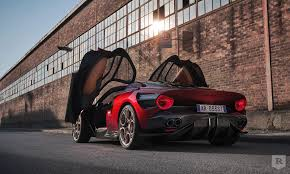
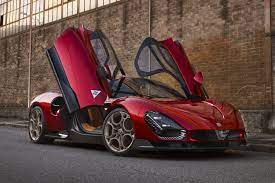
Japánok(Japanesecars.html)

diff --git a/hB_Japanesecars.html b/hB_Japanesecars.html
@@ -6,6 +6,7 @@
     <meta name="viewport" content="width=device-width, initial-scale=1.0">
     <link rel="stylesheet" href="bootstrap.css">
     <link rel="stylesheet" href="c_Autók.css">
+    <link href="Subaru.png" rel="shortcut icon" sizes="180x180">
     <title>Japanese cars</title>
 </head>
 <body>
@@ -28,31 +29,38 @@
     <div class="row">
         <div class="col-xs-12 col-md-6">
             <h2 id="#Mitsubishi">Mitsubishi</h2>
-                <p>A Mitsubishi mint márka egy független japán multinacionális vállalatokat tömörítő cégcsoport, japánul "keirecu". Ebben a cégcsoportban résztvevő cégek egymástól függetlenül végzik üzleti vagy egyéb tevékenységeiket. A keirecu-ban lévő 600 cég közül 500-nak a nevében benne van a "Mitsubishi" szó.</p>
-                <p></p>
+                <p><a href="Mitsubishi_nagy.png"><img src="Mitsubishi.png" alt="Mitsubishi Lancer" title="Mitsubishi Lancer" class="Képek"></a>A Mitsubishi mint márka egy független japán multinacionális vállalatokat tömörítő cégcsoport, japánul "keirecu". Jelenleg legdrágábban értékeített Mitsubishi egy Mitsubishi Lancer volt 117 ezer dollárért.</p>
+                <p>Az Ivaszaki Jataró által 1870-ben alapított társaság cégei előbb hajózási, bányászati, majd banki és nehézipari tevékenységet folytattak, például a Mitsubishi Heavy Industries, Ltd (Mitsubishi Jūkōgyō Kabushiki Kaisha, Micubisi Dzsúkógjó Kabusiki Kaisa) állította elő a második világháború első felének leghatékonyabb vadászgépét, a Zerót, és itt készült a Muszasi nevű szupercsatahajó is. A háború után a zaibacut feloszlatták, vagyis a központi holdingtársaságot felszámolták. 1917-ben a Mitsubishi-birodalom hajói után megszületett az első sorozatban gyártott japán személyautó, a Mitsubishi A-modell. A ma több mint negyven óriásvállalatból álló Mitsubishi-cégcsoport a világ egyik legnagyobb és legkiterjedtebb ipari konszernje. Kevesen tudják például azt, hogy a világ egyik legnagyobb bankját a Mitsubishi tudhatja magáénak.</p>
         </div>
         <div class="col-xs-12 col-md-6">
-            <h2 id="Subaru">Subaru</h2>
-                <p></p>
-                <p></p>
+            <h2 id="#Subaru">Subaru</h2>
+                <p><a href="Subaru-nagy.png"><img src="Subaru.png" alt="Subaru Impreza 22B STi" title="Subaru Impreza 22B STi" class="Képek"></a>A boxermotor nagy híveként ismert Subaru japán autómárkát 1953-ban alapították. Az egyik legkiválóbb és legritkább gép, a Subaru Impreza 22B STi például az egyik legdrágább modellé lépett elő a 32 ezer dollárjával.</p>
+                <p>Hivatalosan 1953-ban hozták létre a Subaru japán autógyártó-vállalatot, ám gyökerei egészen 1915-ig nyúlnak vissza az időben. A sokáig repülőgépkutató-laboratóriumként működő Fuji Heavy Industries (FHI) átszervezésére 1932-ben került sor, immár Nakajima Aircraft Company Ltd. néven, mely a második világháború alatt Japán repülőinek egyik fő gyártójává vált. A háború után Fuji Sangyo Co., Ltd.-ként szervezték újra a vállalatot, ami repülőgép-alkatrészekből építette meg Fuji Rabbit nevű motoros robogóját 1946-ban. A japán kormány rendelete értelmében négy évvel később 12 részre osztották fel. 1953 és 1955 összesen hat vállalat egyesült, és újra létrejött a Fuji Heavy Industries. A vezetés azonban új vállalatot akart létrehozni autógyártásra, és mialatt elkezdték fejleszteni a P-1 kódnevű autót, megszületett a Subaru.</p>
         </div>
         <div class="col-xs-12 col-md-6">
             <h2 id="#Honda">Honda</h2>
-                <p></p>
-                <p></p>
+                <p><a href="Honda_nagy.png"><img src="Honda.png" alt="Honda NSX" title="Honda NSX" class="Képek"></a>Az 1948 szeptemberében alapított Honda Motor Co. Ltd. létezése első percétől fogva kivételes színvonalú mérnöki teljesítményéről ismert. A nemsokára boltokba kerülő NSX lesz az eddigi legdrágább, Amerikában sorozatgyártott négykerekű a maga 156 ezer dolláros alapárával</p>
+                <p>A Honda már 15 éve működött, amikor elkezdett gépkocsikat gyártani, és újabb tíz évbe telt, mire a nemzetközi autóipar fontos szereplőjévé vált. A 80-as évek elején a Honda már vezető multinacionális vállalat volt. A Honda 1963-ban 136 járművet gyártott. Egy évvel később 5210, 1965-ben pedig már 8779 darabot, amelyek egynegyedét exportálták. A termelés ezután visszaesett 3209 járműre, egy újabb év elteltével, 1967-ben azonban ismét fellendült, nem kevesebb, mint 87 000 darabra. A siker kulcsa az erős hazai piac volt: 1968-ban 186 500, 1969-ben 232 000 járművet gyártottak, és a termelésnek csupán 5%-át exportáltak.</p>
         </div>
         <div class="col-xs-12 col-md-6">
             <h2 id="#Toyota">Toyota</h2>
-                <p></p>
-                <p></p>
+                <p><a href="Toyota_nagy.png"><img src="Toyota.png" alt="Toyota GR Supra Racing" title="Toyota GR Supra Racing" class="Képek"></a>A Toyota legdrágább autója egy versenyautó, a Toyota GR Supra Racing mely akár 2millió dollárba is kerülhet.</p>
+                <p>Mire a Toyota a harmincas évek közepén elkezdett autókat gyártani már sok japán autógyár működött. A japán belpiac alaposan megerősödött, Amerika nagy érdeklődést mutatott a Toyotákra. Már Európában is egyre inkább elismerték a márkát: a fő betörési pontok közé tartozott Hollandia, Svájc és Dánia.1961-ben piacra került az egész Ázsiát meghódító, apró Publica (a Starlet távoli elődje), aztán 1965-ben 0,8 literes motorral hajtott, parányi sportkocsi, a Sports 800, majd 1966-ban a cég mindmáig legnagyobb sikere, a Corolla. </p>
         </div>
-        <h4>Források</h4>
-        <ul>
-            <li><a href="https://hu.wikipedia.org/wiki/Mitsubishi">https://hu.wikipedia.org/wiki/Mitsubishi</a> 2024.05.25</li>
-            <li></li>
-            <li></li>
-            <li></li>
-        </ul>
+        <div class="Forrasok">
+            <h4>Források</h4>
+            <ul>
+                <li><a href="https://hu.wikipedia.org/wiki/Mitsubishi">https://hu.wikipedia.org/wiki/Mitsubishi</a> 2024.05.25</li>
+                <li><a href="https://autopult.hu/hirek/42-milliot-fizettek-egy-22-eves-mitsubishiert.html">https://autopult.hu/hirek/42-milliot-fizettek-egy-22-eves-mitsubishiert.html</a> 2024.06.02</li>
+                <li><a href="https://www.vezess.hu/subaru/">https://www.vezess.hu/subaru/</a> 2024.06.02</li>
+                <li><a href="https://www.caranddriver.com/news/a43375653/1998-subaru-impreza-22b-sti-bring-a-trailer-auction/">https://www.caranddriver.com/news/a43375653/1998-subaru-impreza-22b-sti-bring-a-trailer-auction/</a> 2024.06.02</li>
+                <li><a href="https://hu.wikipedia.org/wiki/Honda">https://hu.wikipedia.org/wiki/Honda</a> 2024.06.02</li>
+                <li><a href="https://www.autoblog.hu/hirek/a-honda-nsx-lesz-minden-idok-legdragabb-amerikai-autoja/">https://www.autoblog.hu/hirek/a-honda-nsx-lesz-minden-idok-legdragabb-amerikai-autoja/</a> 2024.06.02</li>
+                <li><a href="https://hu.wikipedia.org/wiki/Toyota">https://hu.wikipedia.org/wiki/Toyota</a> 2024.06.02</li>
+                <li><a href="https://hu.motor1.com/news/260619/2-millio-dollarba-is-kerulhet-a-legdragabb-toyota-supra/">https://hu.motor1.com/news/260619/2-millio-dollarba-is-kerulhet-a-legdragabb-toyota-supra/</a> 2024.06.02</li>
+                <li><a href="https://toyotagazooracing.com/gr/supra/genevams18/">https://toyotagazooracing.com/gr/supra/genevams18/</a> 2024.06.02</li>
+            </ul>
+        </div>
     </div>
 </body>
 </html>

diff --git a/hB_Italiancars.html b/hB_Italiancars.html
@@ -6,6 +6,7 @@
     <meta name="viewport" content="width=device-width, initial-scale=1.0">
     <link rel="stylesheet" href="bootstrap.css">
     <link rel="stylesheet" href="c_Autók.css">
+    <link href="Lamborghini.png" rel="shortcut icon" sizes="180x180">
     <title>Italian cars</title>
 </head>
 <body>
@@ -46,8 +47,8 @@
         </div>
         <div class="col-xs-12 col-md-6">
             <h2 id="#Pagani">Pagani</h2>
-                <p></p>
-                <p></p>
+                <p><a href="Pagani_nagy.png"><img src="Pagani.png" alt="Pagani Huayra Codalunga" title="Pagani Huayra Codalunga" class="Képek"></a>Számos egyedi vagy limitált Pagani készült, 2 fő tömbben, Zondák és Huayrák. a jelenlegi legdrágább Pagani, a 7 millió dolláros Pagani Huayra Codalunga. A Codalunga a 60-as évek versenyautóinak vonásait hozza vissza a köztudatba, egy kisebb csavarral.</p>
+                <p>Hosszú éveken keresztül a Lamborghini tervezőgárdáját erősítette, itt élte ki az autógyártás iránti szenvedélyét. Miután kreativitására a Lamborghini nem volt vevő, 1992-ben a családi vagyon, és némi spórolt pénz segítségével gondolt egy merészet, és saját autógyárat hozott létre egyedi sportautók gyártására. Sokan őrültnek tartották, hogy ezt Olaszországban a Ferrari, a Lamborghini, a Maserati árnyékában határozta el. Évekig tartó fejlesztésbe fogott. A Zonda C12 1999-ben debütált a Genfi Autószalonon. Üzletpolitikája, hogy sorozatban nem gyárt autókat, csak megrendelésre. Úgy tűnik, hogy ez a kereslet egyelőre nem szűnik, annak ellenére, hogy egy-egy gépkocsi ára felszereléstől függően hárommillió dollár körül van.</p>
         </div>
             <div class="Forrasok">
                 <h6>Források</h6>
@@ -55,8 +56,10 @@
                     <li><a href="https://hu.wikipedia.org/wiki/Ferrari">https://hu.wikipedia.org/wiki/Ferrari</a> 2024.05.30</li>
                     <li><a href="https://hu.wikipedia.org/wiki/Alfa_Romeo">https://hu.wikipedia.org/wiki/Alfa_Romeo</a> 2024.06.01</li>
                     <li><a href="https://roadster.hu/alfa-romeo-33-stradale/">https://roadster.hu/alfa-romeo-33-stradale/</a> 2024.06.02</li>
-                    <li></li>
-                    <li></li>
+                    <li><a href="https://hu.wikipedia.org/wiki/Lamborghini">https://hu.wikipedia.org/wiki/Lamborghini</a> 2024.06.02</li>
+                    <li><a href="https://www.autonavigator.hu/cikkek/ilyen-lehet-a-lamborghini-veneno-roadster/">https://www.autonavigator.hu/cikkek/ilyen-lehet-a-lamborghini-veneno-roadster/</a> 2024.06.02</li>
+                    <li><a href="http://fischergyorgyauto.hu/a-pagani-tortenete/">http://fischergyorgyauto.hu/a-pagani-tortenete/</a> 2024.06.02</li>
+                    <li><a href="https://www.motorauthority.com/news/1138504_pagani-shows-second-of-five-huayra-codalungas">https://www.motorauthority.com/news/1138504_pagani-shows-second-of-five-huayra-codalungas</a> 2024.06.02</li>
                 </ul>
         </div>
     </div>

diff --git a/c_Autók.css b/c_Autók.css
@@ -5,7 +5,9 @@ html {
     padding-right: 10%;
     background-attachment: fixed;
 }
-
+p{
+    text-align: justify;
+}
 body{
     background-color: rgba(255, 255, 255, 90%);
     font-size: large;
